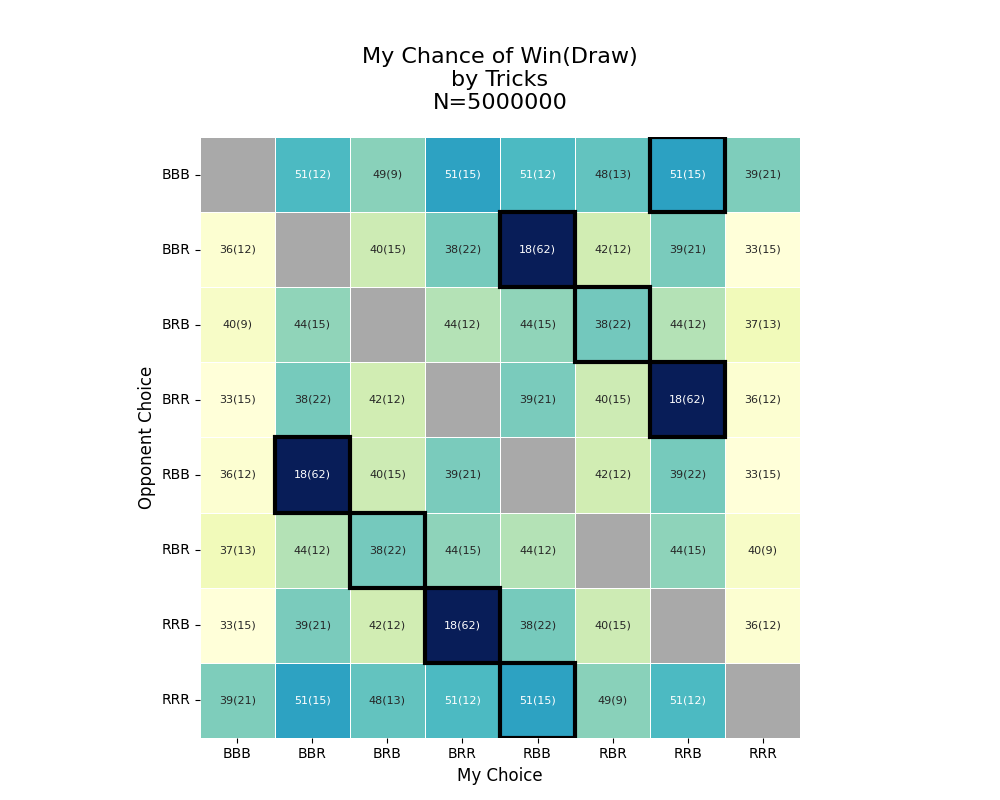
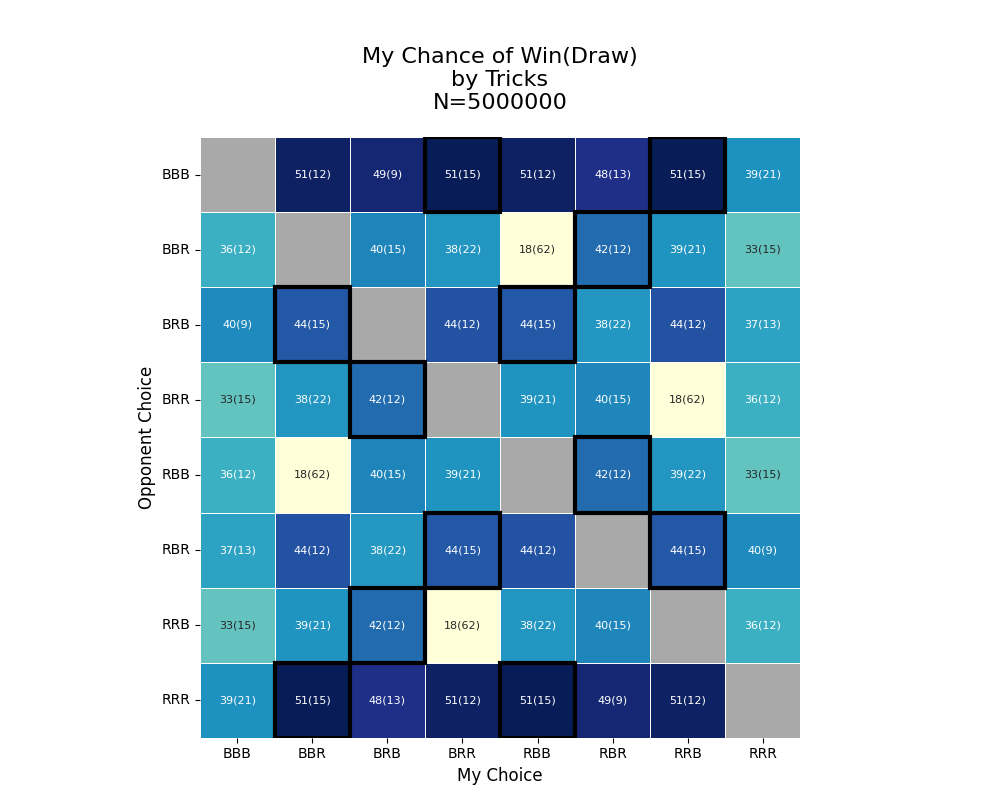
Updated MD

diff --git a/src/win_draw_heatmap_generator.py b/src/win_draw_heatmap_generator.py
@@ -101,22 +101,28 @@ def create_win_draw_heatmap_cards():
 def create_win_draw_heatmap_tricks():
     """
     Generates and saves a heatmap based on the '_tricks' columns from the CSV.
+    
+    The heatmap COLOR is based on full-precision FLOAT win probability.
+    The ANNOTATION and BOXING logic are based on INTEGER win/tie percentages.
     """
     
-    # Step 1: Define labels and data structure
+    # --- Step 1: Define labels and data structure ---
     num_labels = 8
     br_labels = [f'{i:03b}'.replace('0', 'B').replace('1', 'R') for i in range(num_labels)]
 
-    win_draw_prob_matrix = np.zeros((num_labels, num_labels), dtype=float)
+    # Matrix for heatmap color (uses floats for smooth gradient)
+    win_prob_matrix = np.zeros((num_labels, num_labels), dtype=float)
+    
+    # --- FIX: Create INTEGER matrices for the boxing/tie-break logic ---
+    # These will store the truncated percentages (e.g., 44, 15)
+    win_percent_matrix = np.zeros((num_labels, num_labels), dtype=int)
+    tie_percent_matrix = np.zeros((num_labels, num_labels), dtype=int)
+    
     annot_labels = np.full((num_labels, num_labels), "", dtype=object)
 
-    # Step 2: Read data from CSV and calculate probabilities
-    # --- FIX: Create a robust path that works regardless of where the script is run ---
-    # Get the directory where the script is located (e.g., .../project-penny/src)
+    # --- Step 2: Read data from CSV and calculate probabilities ---
     script_dir = os.path.dirname(os.path.abspath(__file__))
-    # Go up one level to the project root (e.g., .../project-penny)
     project_root = os.path.dirname(script_dir)
-    # Construct the path to the 'Tables' folder
     tables_folder_path = os.path.join(project_root, 'Tables')
     csv_filename = os.path.join(tables_folder_path, 'pairs_table.csv')
 
@@ -126,8 +132,6 @@ def create_win_draw_heatmap_tricks():
         print(f"Error: '{csv_filename}' not found. Please ensure the 'Tables' directory is next to the 'src' directory.")
         return
 
-    # --- FIX: Calculate N from the first row, as it's consistent for each pair ---
-    # We assume the number of games (N) is the same for every pair.
     first_row = df.iloc[0]
     n_value = first_row['p1_wins_tricks'] + first_row['p2_wins_tricks'] + first_row['ties_tricks']
 
@@ -143,37 +147,71 @@ def create_win_draw_heatmap_tricks():
         if total_games > 0:
             p2_win_prob = p2_wins / total_games
             tie_prob = ties / total_games
-            win_or_tie_prob = (p2_wins + ties) / total_games
+            
+            # Create integer percentages for labels and logic
             p2_win_percent = int(p2_win_prob * 100)
             tie_percent = int(tie_prob * 100)
+            
             annot_labels[p1_choice, p2_choice] = f"{p2_win_percent}({tie_percent})"
+            
+            # --- FIX: Populate all three matrices ---
+            win_prob_matrix[p1_choice, p2_choice] = p2_win_prob       # For color
+            win_percent_matrix[p1_choice, p2_choice] = p2_win_percent # For logic
+            tie_percent_matrix[p1_choice, p2_choice] = tie_percent    # For logic
         else:
-            win_or_tie_prob = 0
+            # Set all to 0
+            win_prob_matrix[p1_choice, p2_choice] = 0
+            win_percent_matrix[p1_choice, p2_choice] = 0
+            tie_percent_matrix[p1_choice, p2_choice] = 0
             annot_labels[p1_choice, p2_choice] = "0(0)"
             
-        win_draw_prob_matrix[p1_choice, p2_choice] = win_or_tie_prob
-        
-    # Step 3: Create mask and generate plot
+    # --- Step 3: Create mask and generate plot ---
     mask = np.identity(num_labels, dtype=bool)
     plt.figure(figsize=(10, 8))
     ax = sns.heatmap(
-        win_draw_prob_matrix, xticklabels=br_labels, yticklabels=br_labels,
+        win_prob_matrix, # Use the FLOAT matrix for smooth color
+        xticklabels=br_labels, yticklabels=br_labels,
         annot=annot_labels, fmt='', annot_kws={"size": 8}, mask=mask,
         cmap='YlGnBu', linewidths=.5, cbar=False, square=True
     )
     ax.set_facecolor('darkgrey')
 
-    # Step 4: Highlight max values
+    # --- Step 4: Highlight max values using INTEGER logic ---
     for i in range(num_labels):
-        row_data = win_draw_prob_matrix[i, :]
-        if row_data.any():
-            max_value = np.max(row_data)
-            max_indices = np.where(row_data == max_value)[0]
-            for j in max_indices:
+        # --- FIX: Use the INTEGER percent matrix for all logic ---
+        row_win_data = win_percent_matrix[i, :]
+        
+        if row_win_data.any():
+            # 1. Find the highest win percentage (e.g., 44)
+            max_win_value = np.max(row_win_data)
+            
+            # 2. Find all indices that match this percentage (e.g., all 44s)
+            max_win_indices = np.where(row_win_data == max_win_value)[0]
+            
+            # 3. Check for ties
+            if len(max_win_indices) == 1:
+                # No tie
+                j = max_win_indices[0]
                 ax.add_patch(plt.Rectangle((j, i), 1, 1, fill=False, edgecolor='black', lw=3))
+            else:
+                # A tie occurred. Use the INTEGER tie matrix to break it.
+                # --- FIX: Get tie percentages from the INTEGER matrix ---
+                tie_data_for_max_wins = tie_percent_matrix[i, max_win_indices]
+                
+                # Find the max tie percentage (e.g., 15)
+                max_tie_value = np.max(tie_data_for_max_wins)
+                
+                # Find all cells that match the max tie percentage
+                max_tie_sub_indices = np.where(tie_data_for_max_wins == max_tie_value)[0]
+                
+                # Convert back to the original column indices
+                final_column_indices_to_box = max_win_indices[max_tie_sub_indices]
+                
+                # Box all final candidates (e.g., both 44(15) cells)
+                for j in final_column_indices_to_box:
+                    ax.add_patch(plt.Rectangle((j, i), 1, 1, fill=False, edgecolor='black', lw=3))
 
-    # Step 5: Add titles and save
-    # --- FIX: Use the corrected N value in the title ---
+    # --- Step 5: Add titles and save ---
     plt.title(f'My Chance of Win(Draw)\nby Tricks\nN={n_value}', fontsize=16, pad=20)
     plt.xlabel('My Choice', fontsize=12)
     plt.ylabel('Opponent Choice', fontsize=12)

diff --git a/src/README.md b/src/README.md
@@ -10,9 +10,73 @@ You will often need to create more detailed documentation/instructions as well. 
 
 ---
 
-## Overview
+## Penney's Game
 
 Penney's game, AKA Penney Ante, is an example of a three-bit sequence game invented by Walter Penney. It is played by two players using standard pennies (One side is heads and the other is tails).  The 1st player selects a sequence of heads and tails (of length 3 or larger), and shows this sequence to the 2nd player. The 2nd player then determines their own sequence of the same length as the 1st player's. The coin is then tossed until the 1st or 2nd player's sequence appears as a consecutive subsequence of the coin toss outcomes. The player whose sequence appears first wins. 
+
+It should be noted, provided sequences of 3 or more are used, the 2nd player has an innate edge over the 1st. This is because the game is nontransitive, in that for any given sequence of length three or longer one can find another sequence that has higher probability of occurring first. 
+
+The below table demonstrates the advantage of the second player, in how they are able to pick a specific sequence in response to the 1st player's to gain an innate advantage in the game.
+
+| 1st player's choice | 2nd player's choice | Odds in favour of 2nd player |
+|---|---|---|
+| <u>B**B**</u>B | **R**<u>BB</u> | 7.50 to 1 |
+| <u>B**B**</u>R | **R**<u>BB</u> | 3.08 to 1 |
+| <u>B**R**</u>B | **B**<u>BR</u> | 1.99 to 1 |
+| <u>B**R**</u>R | **B**<u>BR</u> | 2.04 to 1 |
+| <u>R**B**</u>B | **R**<u>RB</u> | 2.04 to 1 |
+| <u>R**B**</u>R | **R**<u>RB</u> | 1.99 to 1 |
+| <u>R**R**</u>B | **B**<u>RR</u> | 3.08 to 1 |
+| <u>R**R**</u>R | **B**<u>RR</u> | 7.50 to 1 |
+
+A general rule of thumb for the second player is to start with the opposite of the middle choice of the first player, then follow it with the first player's first two choices. 
+    - So for the first player's choice of 1-2-3
+    - the second player must choose (!2)-1-2 
+(where !2 is the opposite of the 1st player's 2nd sequence choice)
+
+---
+
+## The Humble-Nishiyama Variant
+
+One suggested variation on Penney's Game uses a pack of ordinary playing cards. The Humble-Nishiyama Randomness Game follows the same format using Red and Black cards, instead of Heads and Tails. The game is played as follows:
+    1.  At the start of a game each player decides on their three colour sequence for the whole game. 
+    2. The cards are then turned over one at a time and placed in a line, until one of the chosen triples appears. 
+    3. The winning player takes the upturned cards, having won that "trick". 
+    4. The game repeats steps 1 through 3 with the unused cards, both players collecting tricks as their triples come up, until all the cards in the pack have been used. 
+
+The winner of the game is the player that has won the most tricks, and games commonly end with a total of 7 tricks.
+
+The general rule of thumb for the second player to gain an edge in this game is the same from Penney's Game, however the probabilty of victory are different. 
+
+Below are approximate probabilities of the outcomes for each strategy based on computer simulations.<sup>[14]</sup>
+
+| 1st player's choice | 2nd player's choice | Probability 1st player wins | Probability 2nd player wins | Probability of a draw |
+|---|---|---|---|---|
+| <u>B**B**</u>B | **R**<u>BB</u> | 0.11% | 99.49% | 0.40% |
+| <u>B**B**</u>R | **R**<u>BB</u> | 2.62% | 93.54% | 3.84% |
+| <u>B**R**</u>B | **B**<u>BR</u> | 11.61% | 80.11% | 8.28% |
+| <u>B**R**</u>R | **B**<u>BR</u> | 5.18% | 88.29% | 6.53% |
+| <u>R**B**</u>B | **R**<u>RB</u> | 5.18% | 88.29% | 6.53% |
+| <u>R**B**</u>R | **R**<u>RB</u> | 11.61% | 80.11% | 8.28% |
+| <u>R**R**</u>B | **B**<u>RR</u> | 2.62% | 93.54% | 3.84% |
+| <u>R**R**</u>R | **B**<u>RR</u> | 0.11% | 99.49% | 0.40% |
+
+If the game is ended after the first trick, there is a negligible chance of a draw. The odds of the second player winning in such a game appear in the table below.
+
+| 1st player's choice | 2nd player's choice | Odds in favour of 2nd player |
+|---|---|---|
+| <u>B**B**</u>B | **R**<u>BB</u> | 7.50 to 1 |
+| <u>B**B**</u>R | **R**<u>BB</u> | 3.08 to 1 |
+| <u>B**R**</u>B | **B**<u>BR</u> | 1.99 to 1 |
+| <u>B**R**</u>R | **B**<u>BR</u> | 2.04 to 1 |
+| <u>R**B**</u>B | **R**<u>RB</u> | 2.04 to 1 |
+| <u>R**B**</u>R | **R**<u>RB</u> | 1.99 to 1 |
+| <u>R**R**</u>B | **B**<u>RR</u> | 3.08 to 1 |
+| <u>R**R**</u>R | **B**<u>RR</u> | 7.50 to 1 |
+
+Another variant exists, in which instead of evaluating the victory criteria for the Humble-Nishiyama Randomness Game by tricks, it is instead evaluated by the final number of cards both players possess. This variant of the game decreases the number of ties substantially, and further skews the probability of victory in the favor of the second player.
+
+--- 
 
 ## Purpose
 
